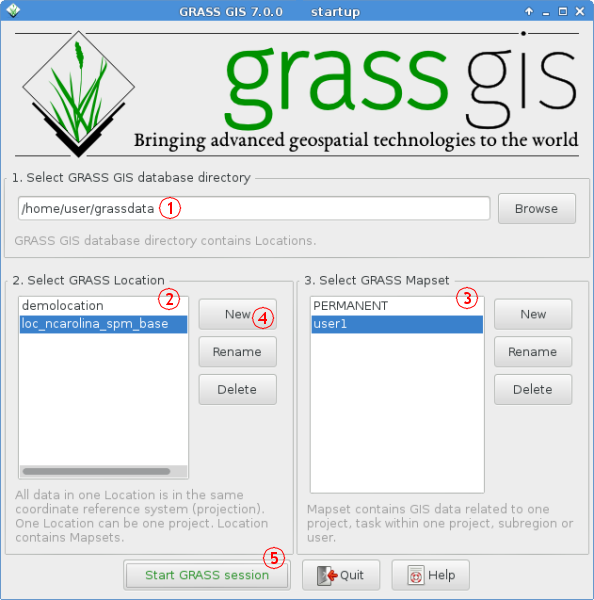
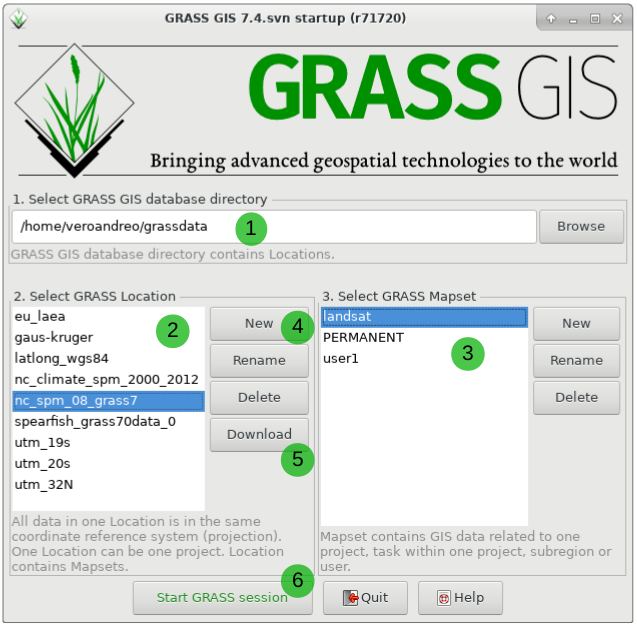
lib/init/helptext: start-up screen fig updated and Download button explained, trunk https://trac.osgeo.org/grass/changeset/71726
git-svn-id: https://svn.osgeo.org/grass/grass/branches/releasebranch_7_4@71728 15284696-431f-4ddb-bdfa-cd5b030d7da7

Changed region(s): [[0.0, 0.0, 1.0, 1.0]]

diff --git a/lib/init/helptext.html b/lib/init/helptext.html
@@ -42,6 +42,9 @@ See the "Location Wizard"&nbsp;<img src="circle_4.png" alt="[(4)]"> to
 easily create a new LOCATION from scratch from a geocoded file, by
 defining the parameters or by selecting the corresponding EPSG projection
 code.
+<p>
+See&nbsp;<img src="circle_5.png" alt="[(5)]"> to directly download a
+sample LOCATION into the DATABASE.
 
 <h3><img src="circle_3.png" alt="[(3)]">&nbsp;Selecting the MAPSET (a subproject)</h3>
 
@@ -58,7 +61,15 @@ projections. You can also create new LOCATION easily from a georeferenced
 data file (e.g., SHAPE file or GeoTIFF, see below).  Find below also some
 rules to define the default raster resolution for a new LOCATION.
 
-<h3><img src="circle_5.png" alt="[(5)]">&nbsp;Start GRASS</h3>
+<h3><img src="circle_5.png" alt="[(5)]">&nbsp;Download a sample LOCATION</h3>
+
+In the "Location Wizard" there is also a Download button that allows you to
+directly download a ready-to-use LOCATION into the DATABASE. You can
+choose among different sample LOCATIONS that are currently available at the
+<a href="https://grass.osgeo.org/download/sample-data/">Download</a>
+section in the GRASS GIS website.
+
+<h3><img src="circle_6.png" alt="[(6)]">&nbsp;Start GRASS</h3>
 
 Once you have selected an existing LOCATION/MAPSET or defined a new
 one, you can enter GRASS. The graphical user interface 
